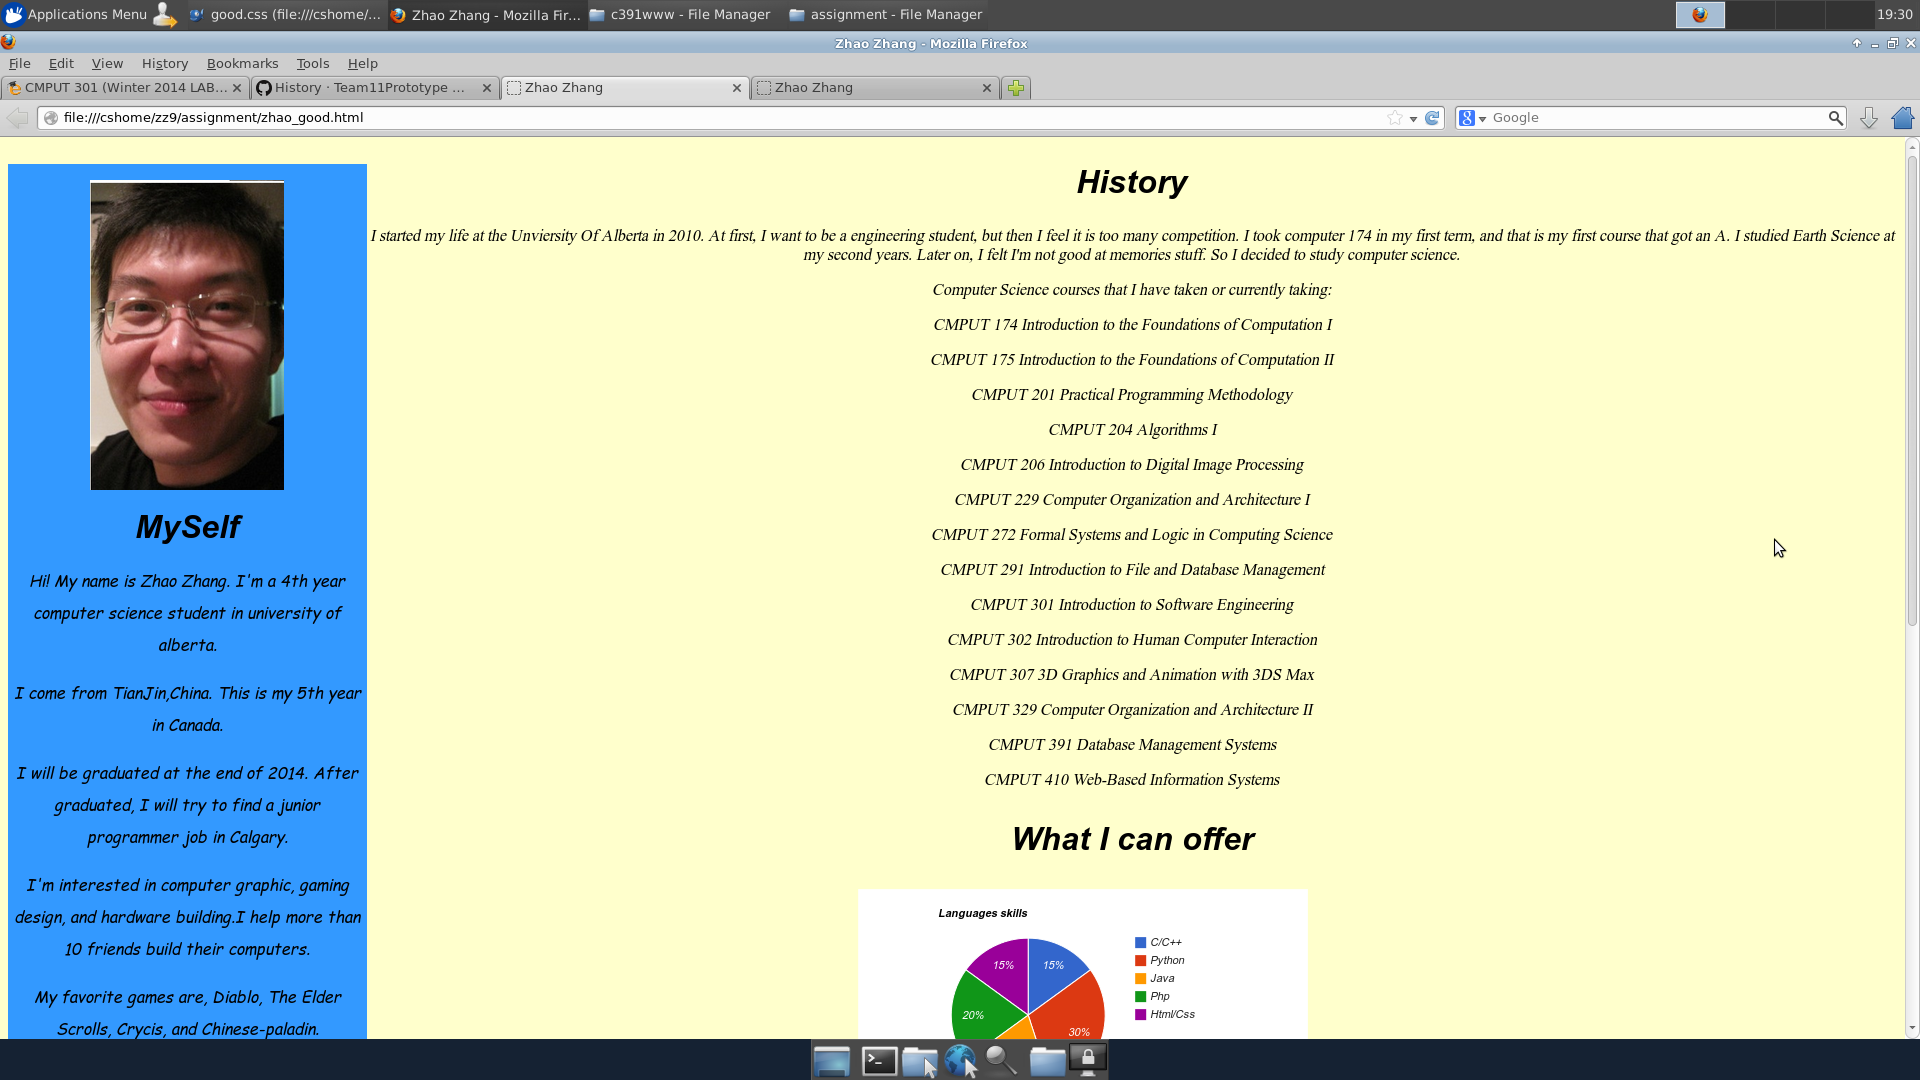
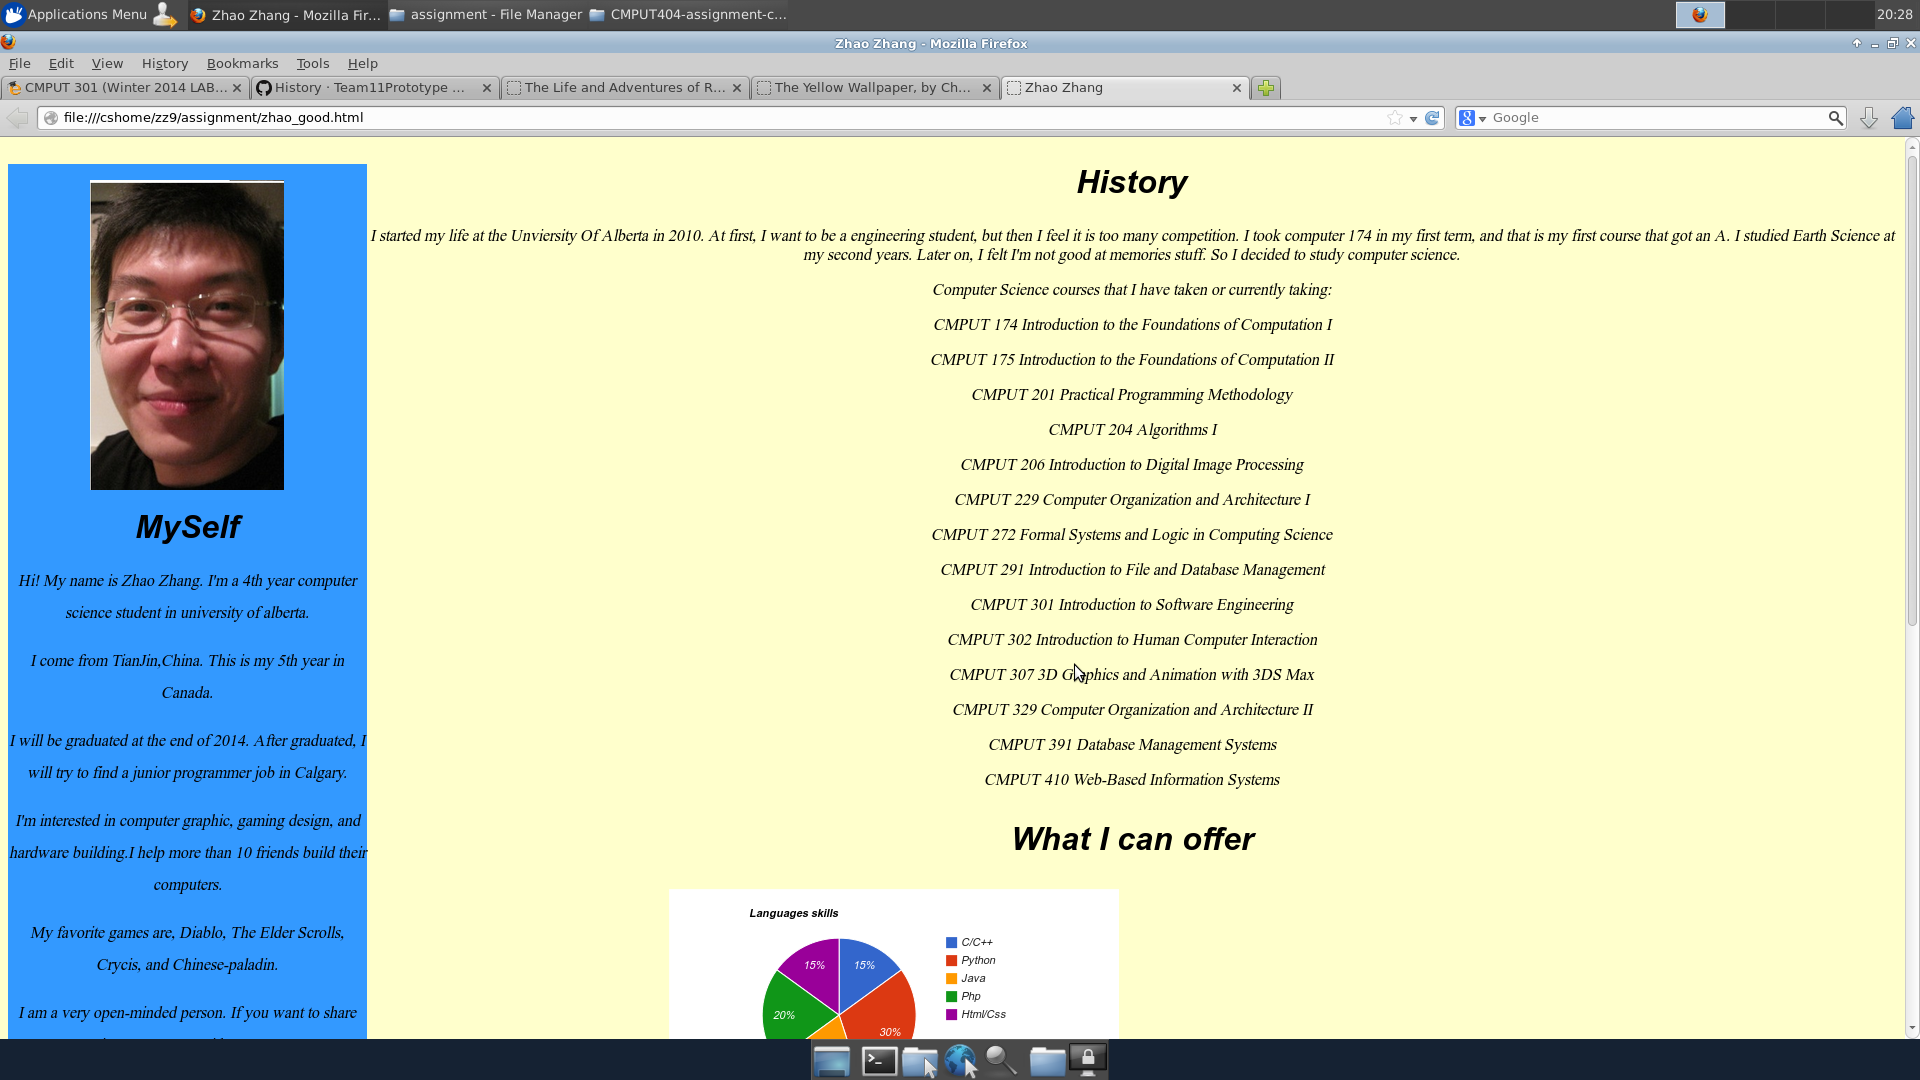
ready to submit

diff --git a/bad.css b/bad.css
@@ -1,38 +1,45 @@
 @charset "utf-8";
+@charset "utf-8";
 /* CSS Document */
 
 body {
-	font-family: "Times New Roman", Times, serif;
-	font-size: small;
+	font-family: "Comic Sans MS", cursive;
+	font-size: medium;
 	font-style: normal;
-	background-color: #F00;
+	background-color: #FFF;
 	letter-spacing: 1px;
 	word-spacing: 1px;
 	height: auto;
 	width: auto;
-	color: #FF3;
+	color: #000;
 }
 
+
 div.sidebar {
-	background-color: #F0F;
+	background-color: #FF0;
 	width: 19%;
 	height: 100%;
 	float: left;
 	font-family: "Comic Sans MS", cursive;
-	font-size: xx-large;
+	font-size: medium;
 	line-height: 2em;
 	text-decoration: blink;
+	color: #696;
 }
 h1,h1,h2,h3,h4,h5,h6 {
-	font-family: Arial, Helvetica, sans-serif;
-	font-size: xx-small;
+	font-family: "Comic Sans MS", cursive;
+	font-size: xx-large;
 	font-style: normal;
-	text-decoration: blink;
+	color: #000;
 }
 div.footer {
-	margin-top:1em;
-	font-family: Arial, Helvetica, sans-serif;
+	margin-top: 1em;
+	font-family: "Comic Sans MS", cursive;
 	font-size: large;
 	text-decoration: blink;
 }
+/* CSS Document */
 
+.sidebar p {
+	color: #6C6;
+}

diff --git a/zhao_bad.html b/zhao_bad.html
@@ -62,7 +62,7 @@
     
     
     <h3>What I can offer</h3>
-    <div id="piechart" style="width: 450px; height: 250px;padding-left: 45%;"></div>
+    <div id="piechart" style="width: 450px; height: 250px;padding-left: 35%;"></div>
         <p>Writing Skills --Ability to efficiently produce concise, organized reports, labs and memos.</p>
     <p>Public Speaking -Finalist in Senior High School Speaking Competition.Gained confidence and learned to engage audiences with my creative speeches.</p>
     <h4>Important points of me</h4>

diff --git a/zhao_good.html b/zhao_good.html
@@ -62,7 +62,7 @@
     
     
     <h3>What I can offer</h3>
-    <div id="piechart" style="width: 450px; height: 250px;padding-left: 45%;"></div>
+    <div id="piechart" style="width: 450px; height: 250px;padding-left: 35%;"></div>
     <p>Writing Skills --Ability to efficiently produce concise, organized reports, labs and memos.</p>
     <p>Public Speaking -Finalist in Senior High School Speaking Competition.Gained confidence and learned to engage audiences with my creative speeches.</p>
     <h4>Important points of me</h4>

diff --git a/good.css b/good.css
@@ -13,13 +13,12 @@ body {
 	height: auto;
 	width: auto;
 }
-
 div.sidebar {
 	background-color: #39F;
 	width: 19%;
 	height: 100%;
 	float: left;
-	font-family: "Comic Sans MS", cursive;
+	font-family: "Times New Roman", Times, serif;
 	font-size: medium;
 	line-height: 2em;
 }
